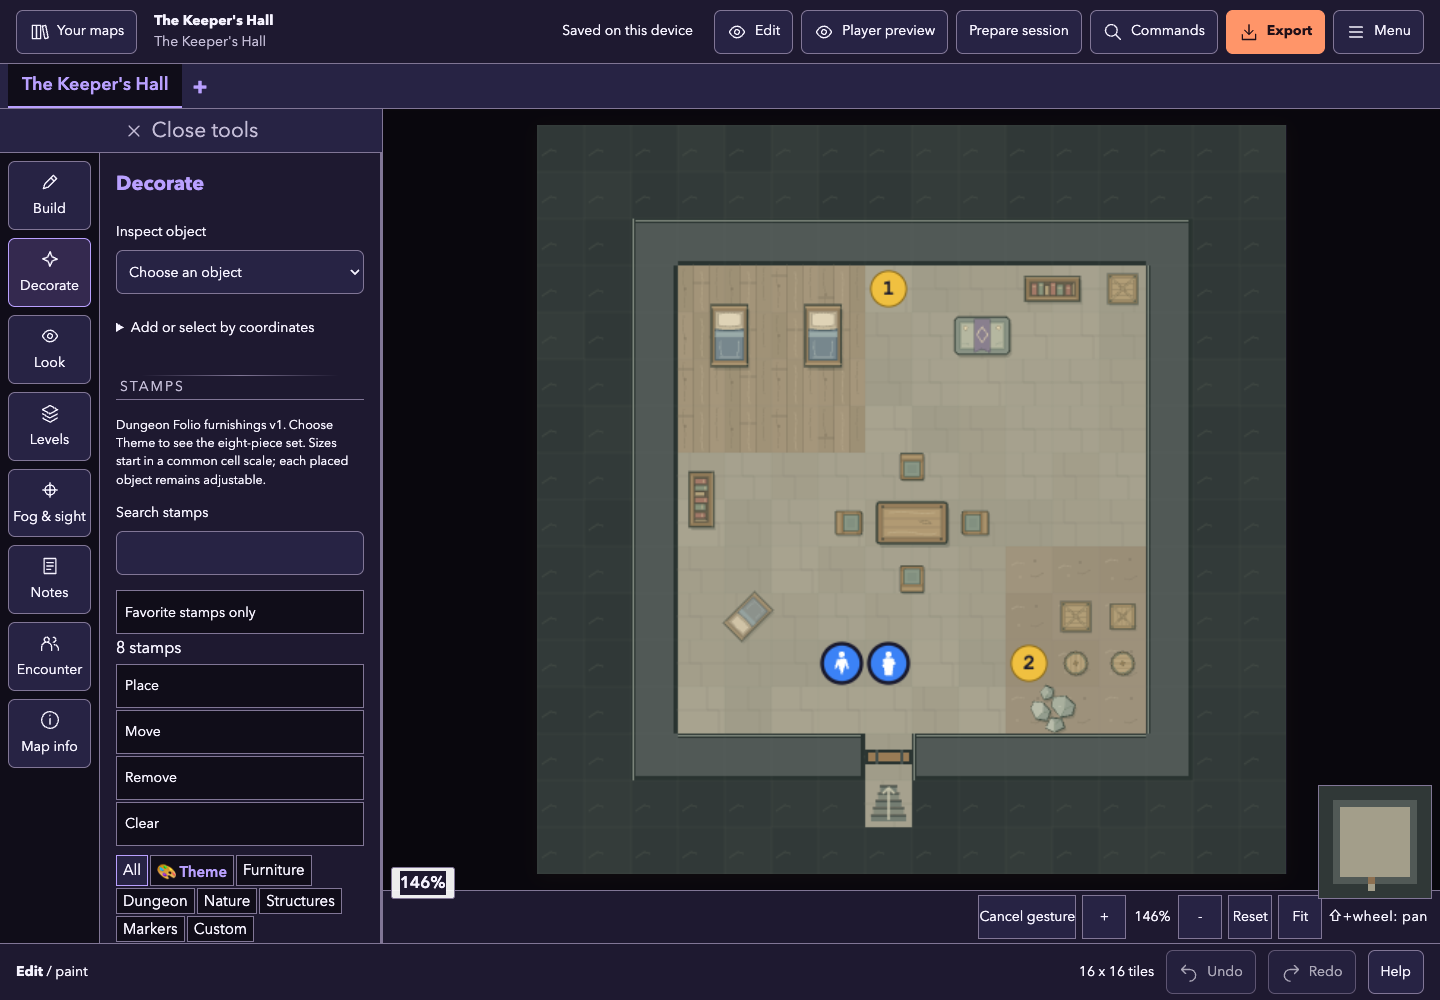
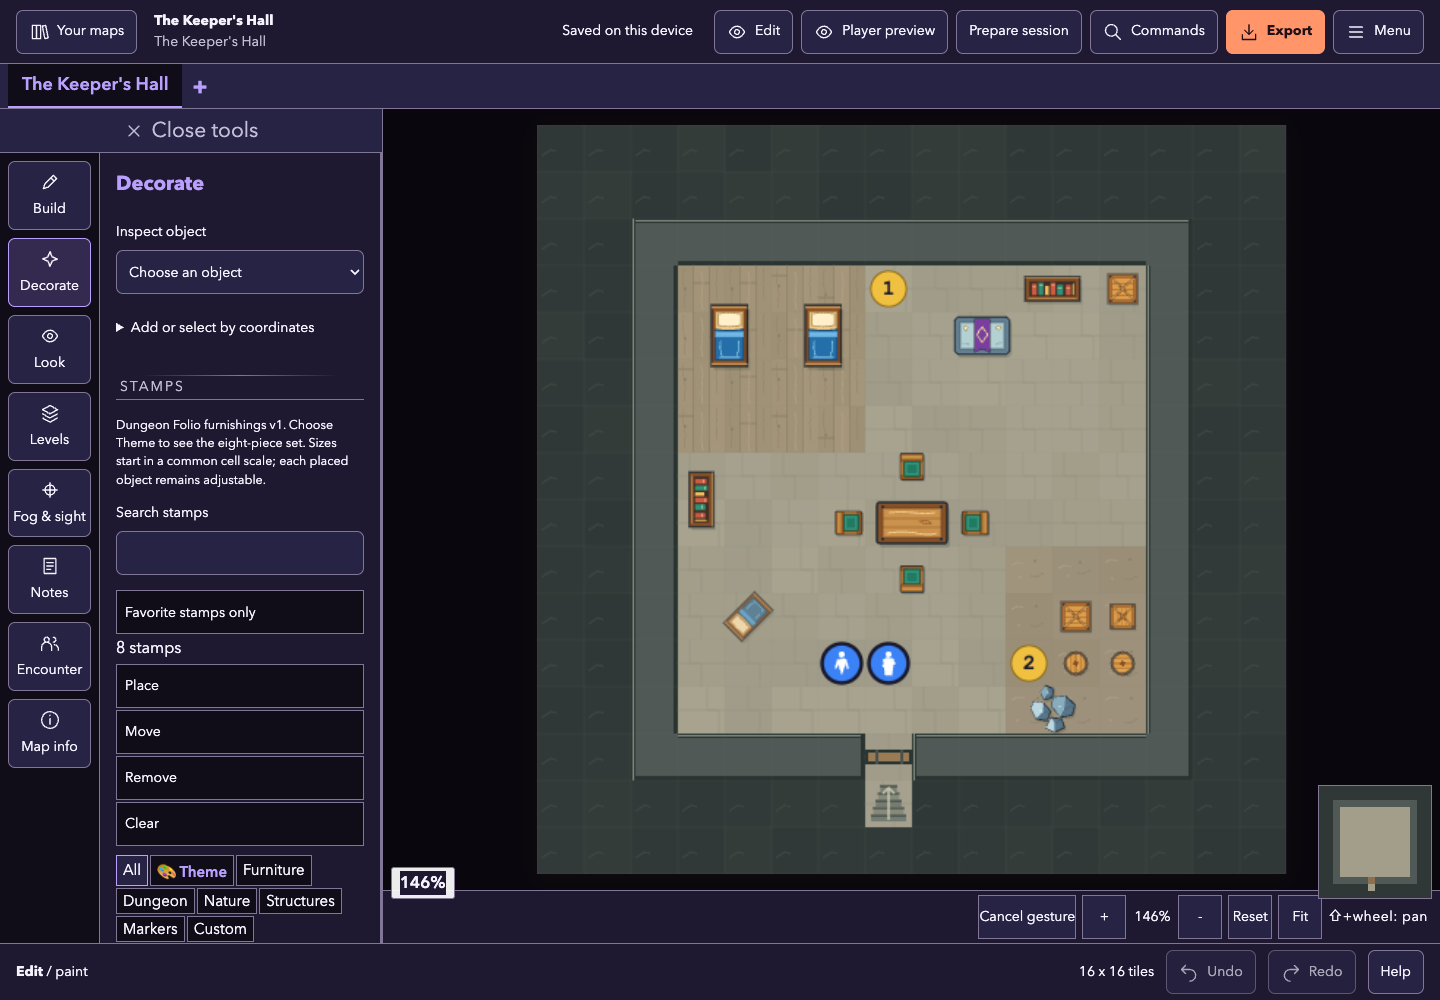
feat: strengthen Folio furnishing colors and contrast
Respond to owner feedback with richer wood, upholstery and stone colors plus darker outlines. Preserve paths, scale, shadows and floors, refresh source fingerprints and review images, and guard outline-to-floor contrast.

diff --git a/src/utils/__tests__/folioFurnishings.test.tsx b/src/utils/__tests__/folioFurnishings.test.tsx
@@ -13,7 +13,10 @@ import { projectForAudience } from '../audienceProjection';
 import { _drawStampShadows_test } from '../lightingAtmosphere';
 import { useMapState } from '../../hooks/useMapState';
 import StampPicker from '../../components/StampPicker';
-import type { StampDef } from '../../types/map';
+import { FLOOR_MATERIAL_IDS, type StampDef } from '../../types/map';
+import { folioShapes } from '../../themes/folio-v1/art';
+import { floorMaterialShapes } from '../../themes/folio-v1/materials';
+import { contrastRatio, parseHexColor } from '../accessibility';
 
 beforeEach(() => {
   clearFolioStampPathCache();
@@ -41,7 +44,7 @@ describe('Folio furnishing kit', () => {
     for (const invalid of [
       source.replace('</svg>', '<script>alert(1)</script></svg>'),
       source.replace('<path ', '<path onclick="alert(1)" '),
-      source.replace('#977e5b', 'url(https://example.test/a.svg)'),
+      source.replace(FOLIO_FURNISHINGS[0].paths![0].fill!, 'url(https://example.test/a.svg)'),
       source.replace('stroke-width="1.4"', 'stroke-width="NaN"'),
       source.replace('viewBox="0 0 64 64"', 'viewBox="0 0 0 0"'),
     ]) expect(() => parseBundledFolioSvg(invalid)).toThrow();
@@ -60,6 +63,21 @@ describe('Folio furnishing kit', () => {
     const project = buildFolioFurnishingReference();
     project.levels[0].stamps![0].stampId = id;
     expect(decodeProject(encodeProject(project)).levels[0].stamps![0].stampId).toBe(id);
+  });
+
+  it('keeps opaque furnishing outlines distinct from every Folio floor color variant', () => {
+    const backgrounds = [
+      ...Array.from({ length: 32 }, (_, x) => folioShapes('floor', x, 7, 32)[0]),
+      ...FLOOR_MATERIAL_IDS.flatMap(id =>
+        Array.from({ length: 32 }, (_, x) => floorMaterialShapes(id, x, 7, 32)![0])),
+    ];
+    for (const furnishing of FOLIO_FURNISHINGS) {
+      const outline = parseHexColor(furnishing.paths![0].stroke!)!;
+      for (const background of backgrounds) {
+        if (background.kind !== 'rect') throw new Error('Expected a floor background rectangle.');
+        expect(contrastRatio(outline, parseHexColor(background.fill)!)).toBeGreaterThanOrEqual(4.5);
+      }
+    }
   });
 
   it('caches paths independently of object position, rotation, print colors and scale', () => {

diff --git a/src/assets/folio-furnishings-v1/manifest.ts b/src/assets/folio-furnishings-v1/manifest.ts
@@ -1,14 +1,14 @@
 import { FOLIO_FURNISHINGS } from './catalog';
 
 const SOURCE_HASHES: Record<string, string> = {
[16 lines of base64/hex data omitted]
 };
 
 export const FOLIO_FURNISHING_MANIFEST = {

diff --git a/docs/USER-EXPERIENCE-ROADMAP.md b/docs/USER-EXPERIENCE-ROADMAP.md
@@ -8,7 +8,7 @@
 
 **Audience:** Future product, design, development, art, and QA sessions.
 
-**Latest implementation:** Following merged materials #168, UX-07 adds eight original top-down furnishings and The Keeper's Hall reference room. See the [individual pieces and room preview](./media/ux07-furnishings/first-preview.png) and [output contact sheet](./media/ux07-furnishings/contact-sheet.png). Prior sample artwork and stamp IDs remain unchanged. UX-00 participant research remains deferred with zero participants; physical-device and UX-09 acceptance gates remain open.
+**Latest implementation:** Following merged materials #168, UX-07 adds eight original top-down furnishings and The Keeper's Hall reference room. Owner feedback requested richer, higher-contrast furnishing colors; see the [revised palette beside the original](./media/ux07-furnishings/color-review.png) and [output contact sheet](./media/ux07-furnishings/contact-sheet.png). Prior sample artwork and stamp IDs remain unchanged. UX-00 participant research remains deferred with zero participants; physical-device and UX-09 acceptance gates remain open.
 
 ## 1. Product direction
 
@@ -684,6 +684,19 @@ table, chair, bed, shelf, crate, barrel, altar and rubble before token work.
 #168 merged at `2da403f` after its approved head passed CI. This furnishing
 slice is implemented but still awaits its own owner visual approval.
 
+**Color feedback, September 11, 2026:** The owner liked the forms but found
+the initial palette too desaturated for easy reading. The draft v1 sources
+now use warmer wood, emerald upholstery, blue bedding, violet altar cloth,
+cooler stone facets and darker outlines. Only SVG color values changed:
+paths, stroke widths, scale, shadows, floor colors and print geometry are
+unchanged. Source fingerprints and current output images were refreshed.
+The original `first-preview.png` remains as historical evidence. The
+[color comparison](./media/ux07-furnishings/color-review.png) is the current
+review surface. The revised colors still await owner confirmation.
+Opaque outline colors are guarded at a minimum 4.5:1 contrast against the
+sampled flagstone, wood and earth fill variants; this is a palette-level
+regression guard, not a certification of composited pixels or accessibility.
+
 Open **The Keeper's Hall** from samples, or use **Dungeon Folio v1 >
 Decorate > Theme** to find the eight named Folio stamps. They are additional
 versioned assets, not replacements for the existing catalog. The reference
@@ -723,7 +736,7 @@ Targeted coverage includes source fingerprints, restricted source parsing,
 custom overrides, missing versions, shadow direction/deduplication,
 monochrome paths, cache bounds and conservative fog exclusion.
 
-The eight SVG sources total 5,006 bytes, 1,398 bytes gzip, bundled into the
+The revised SVG sources total 5,006 bytes, 1,375 bytes gzip, bundled into the
 existing application chunks with no network asset requests or new dependencies.
 The current 128 x 128 render probe with the reference placements measured
 16.8 ms cold, 16.2 ms warm median and 19.1 ms warm maximum over ten warm
@@ -903,7 +916,7 @@ Retain procedural/minimal art fallbacks when optional packs fail. Do not delete 
 | UX-04 | Merged in #163 | [Focused editing, input matrix and device evidence](./UX-04-HANDOFF.md); later physical-device/research gates remain |
 | UX-05 | Merged in #165; Chromium qualified; cross-browser follow-up open | [Publication, projection, discovery, evidence and limitations](./UX-05-HANDOFF.md); later release gates remain |
 | UX-06 | Merged in #166; production Chromium two-window qualified | [Session lifecycle, isolated persistence, display protocol and evidence](./UX-06-HANDOFF.md); Firefox/WebKit and later release gates remain |
-| UX-07 | Foundation and materials merged in #167/#168; eight-piece furnishing reference awaiting visual approval | [Furnishing pieces and room](./media/ux07-furnishings/first-preview.png); token sets and remaining art packages are still open |
+| UX-07 | Foundation and materials merged in #167/#168; richer furnishing palette awaiting visual approval | [Revised furnishing colors](./media/ux07-furnishings/color-review.png); token sets and remaining art packages are still open |
 | UX-08 | Not started | Export and production offline |
 | UX-09 | Not started | Release qualification |
 | UX-10 | Deferred | Explicit approval of remote scope |
